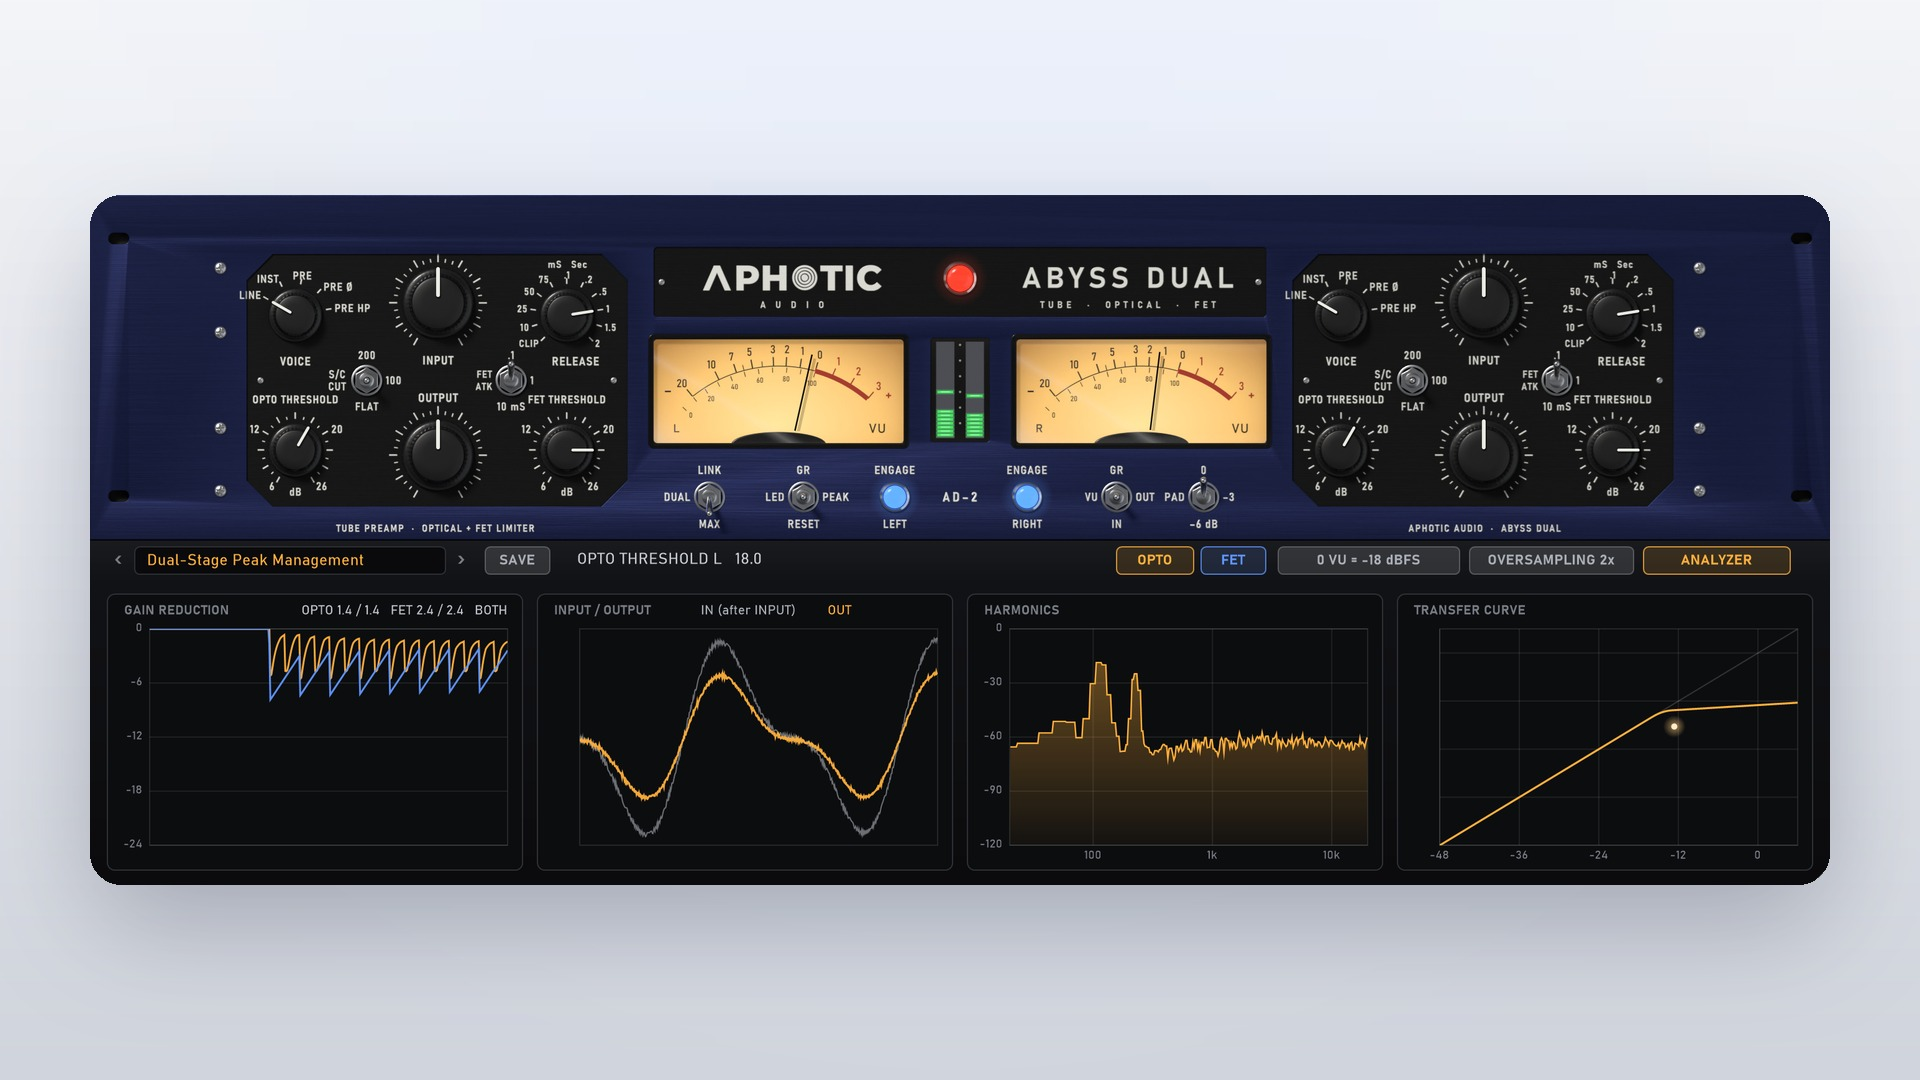
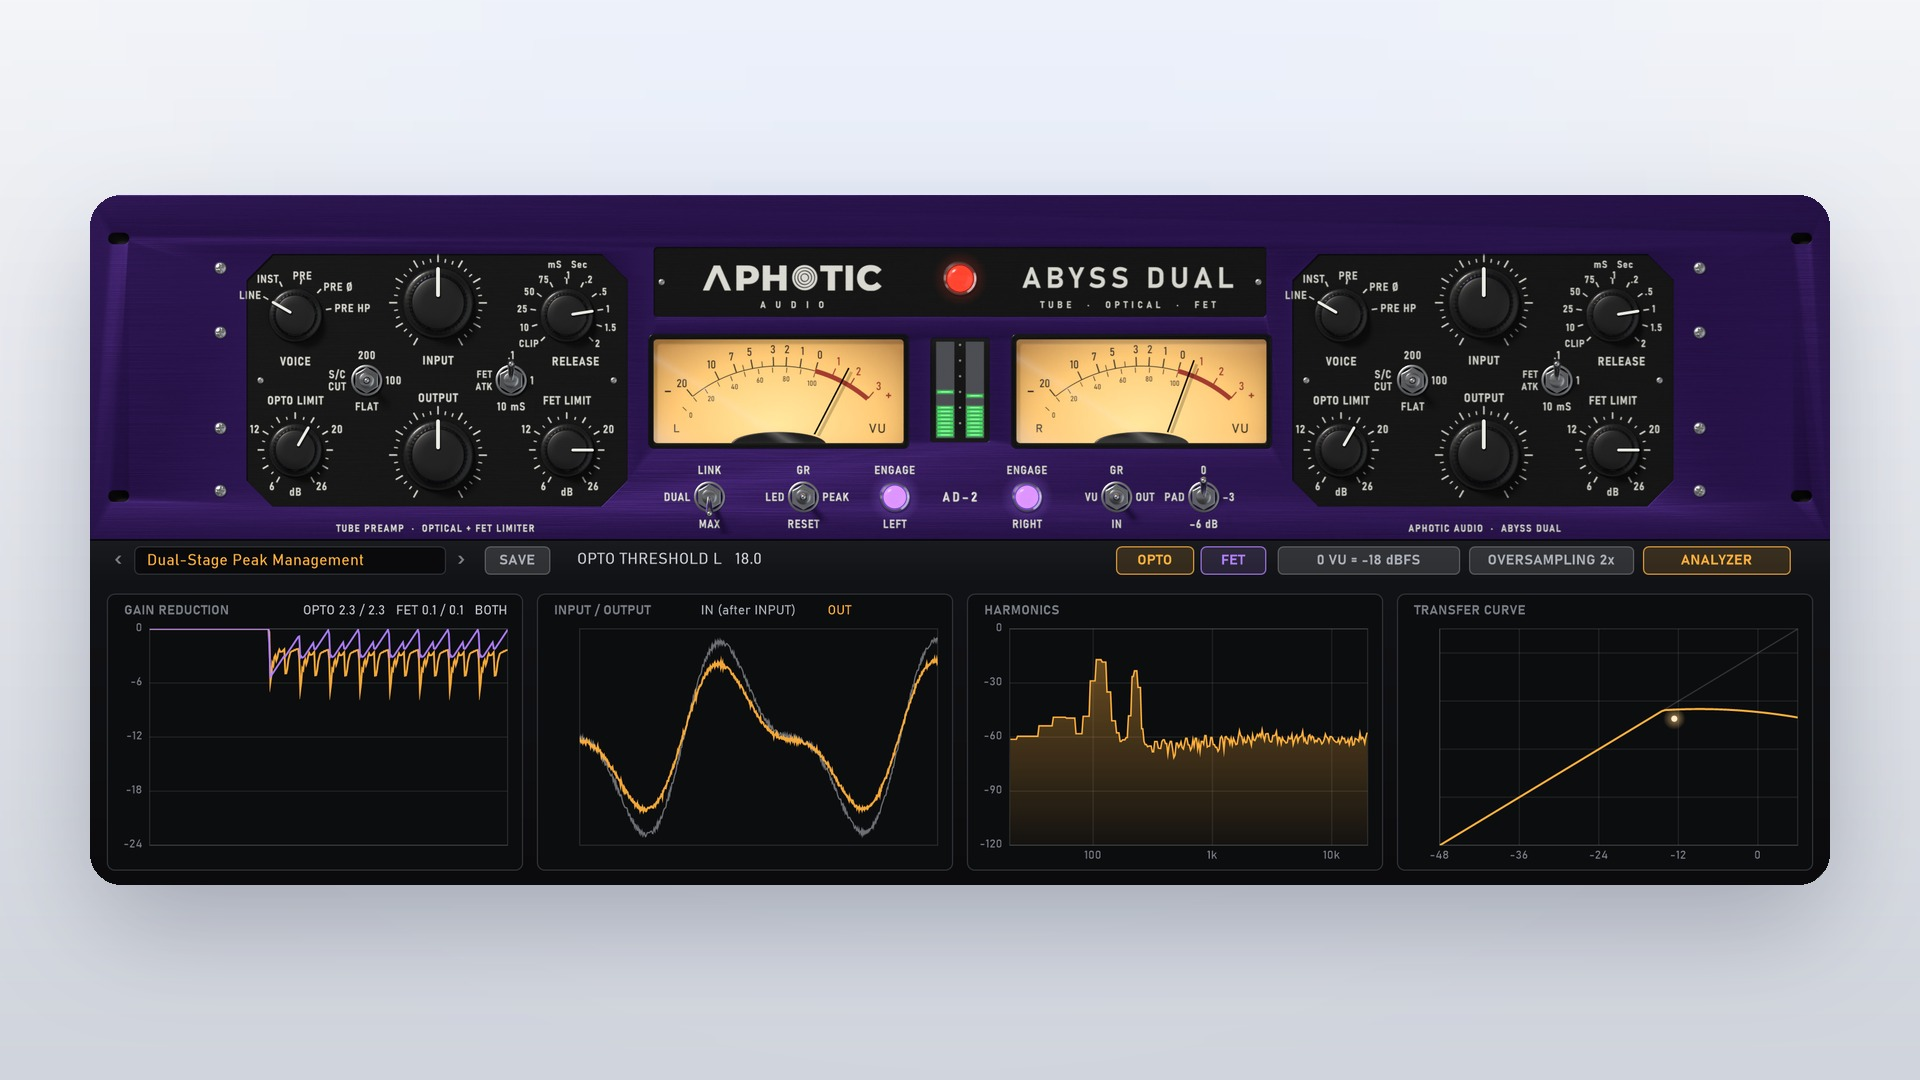
ABYSS DUAL 1.1.0 pictures: the purple panel (website, store cover, thumbnail, Hub)

diff --git a/index.html b/index.html
@@ -259,9 +259,9 @@
           <li>20 presets, an analyzer panel, oversampling up to 8x; zero latency, resizable interface</li>
         </ul>
         <div class="buy"><span class="price" data-price="abyss">$30</span><a class="btn solid" data-buy="abyss" href="checkout.html?product=abyss">Buy for $30</a></div>
-        <p class="note" data-pay-note="abyss">One-time purchase. Use your Hub email at checkout, then install in Aphotic Hub. Windows VST3 (64-bit); not on Mac yet. Version <span data-version="abyss">1.0.0</span>. Up to 3 computers per license.</p>
+        <p class="note" data-pay-note="abyss">One-time purchase. Use your Hub email at checkout, then install in Aphotic Hub. Windows VST3 (64-bit); not on Mac yet. Version <span data-version="abyss">1.1.0</span>. Up to 3 computers per license.</p>
       </div>
-      <figure class="shot"><img src="img/abyss.jpg" width="1600" height="1000" loading="lazy" alt="ABYSS DUAL: a midnight-blue rack unit with two amber VU meters, LED bar graphs, black control plates with knobs for input, output, release and the two limiter thresholds, and an analyzer panel underneath"></figure>
+      <figure class="shot"><img src="img/abyss.jpg" width="1600" height="1000" loading="lazy" alt="ABYSS DUAL: a deep purple rack unit with two amber VU meters, LED bar graphs, black control plates with knobs for input, output, release and the two limiter thresholds, and an analyzer panel underneath"></figure>
     </div>
   </section>
 
